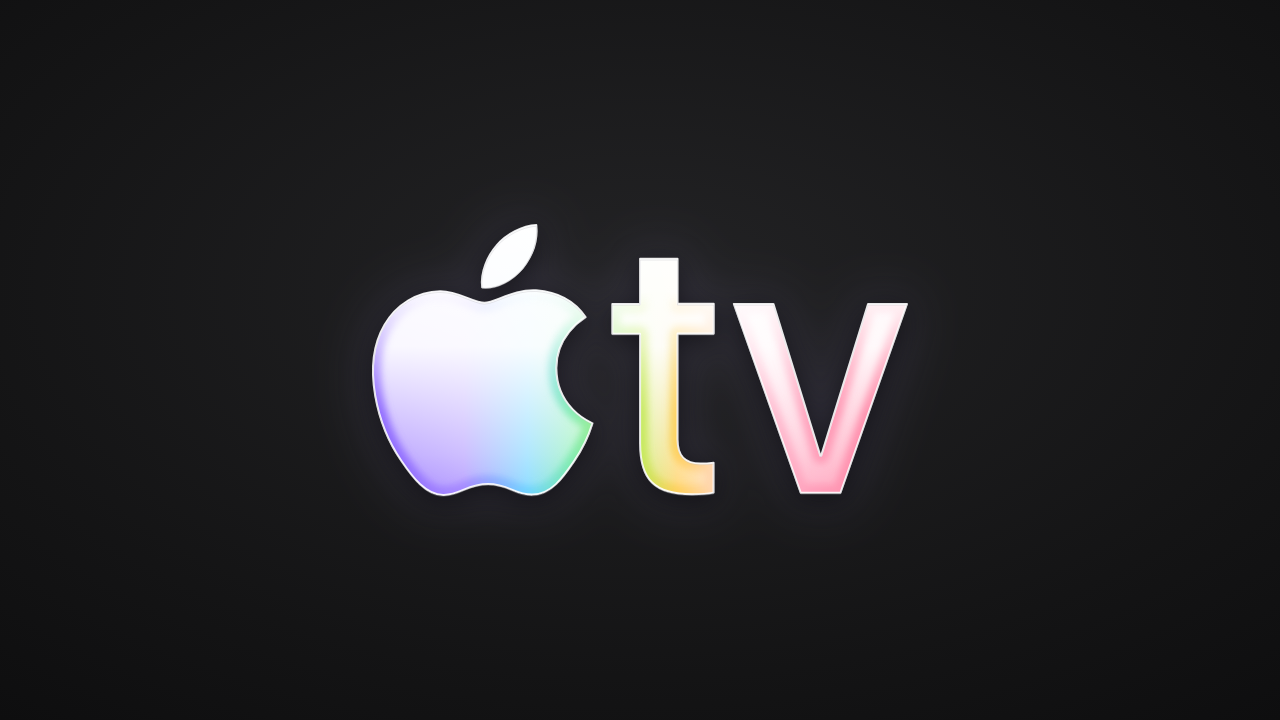
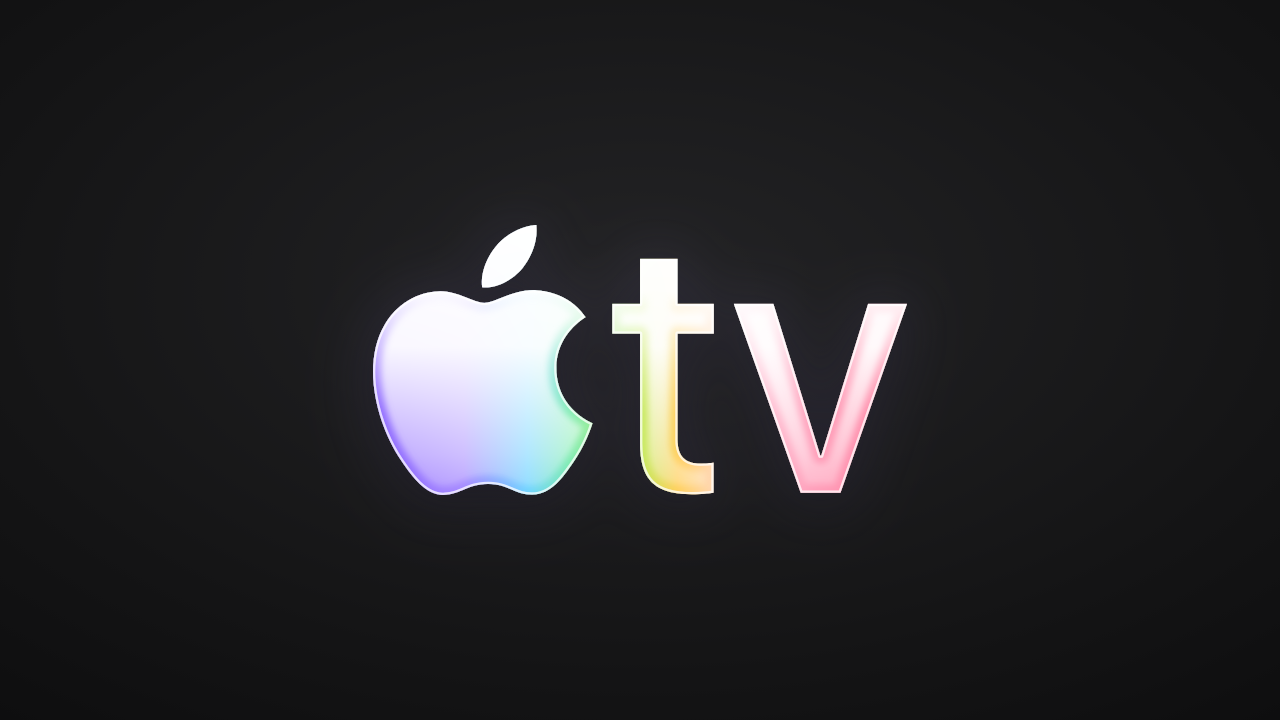
Smooth the Apple TV glass edges and supersample every cover
The Apple TV logo had a grey hairline just outside its white rim, which
turned into stair-steps once Nuvio scaled the tile down. The rim is now an
inner highlight, and every cover is drawn at 2x and box-filtered to 1280x720.

diff --git a/source/cover.html b/source/cover.html
@@ -5,7 +5,7 @@ html,body{margin:0;width:1280px;height:720px;overflow:hidden}
 .white{filter:brightness(0) invert(1)}
 .glow{position:absolute;inset:-20%;filter:blur(70px);opacity:.95}
 .glow i{position:absolute;border-radius:50%;display:block}
-.glass img{filter:drop-shadow(0 6px 14px rgba(0,0,0,.6)) drop-shadow(0 0 26px rgba(190,170,255,.18))}
+.glass img{filter:drop-shadow(0 10px 28px rgba(0,0,0,.45)) drop-shadow(0 0 26px rgba(190,170,255,.18))}
 .lum img{filter:brightness(0) invert(1) drop-shadow(0 0 18px rgba(255,255,255,.55)) drop-shadow(0 0 60px rgba(255,190,240,.45))}
 </style></head><body><div class="t" id="t"><div class="glow" id="g" hidden>
 <i style="left:18%;top:30%;width:520px;height:420px;background:#ff6a2b"></i>

diff --git a/README.md b/README.md
@@ -15,7 +15,7 @@ https://raw.githubusercontent.com/eltontayzy/nuvio-platform-covers/main/covers/n
 ## Changing a cover
 
 1. Edit the gradient or logo size for that service in `source/cover.html` (the `C` table).
-2. Run `node source/render.mjs` to re-render everything into `covers/`.
+2. Run `node source/render.mjs` to re-render everything into `covers/` (drawn at 2x and scaled down, so it needs ImageMagick).
 3. Commit and push. Nuvio picks up the new image once GitHub's cache expires (about 5 minutes), keeping the same link.
 
 Logos come from Wikimedia Commons. `appletv-lum.svg` rebuilds Apple's 2025 glass Apple TV logo (iridescent rim) on top of
